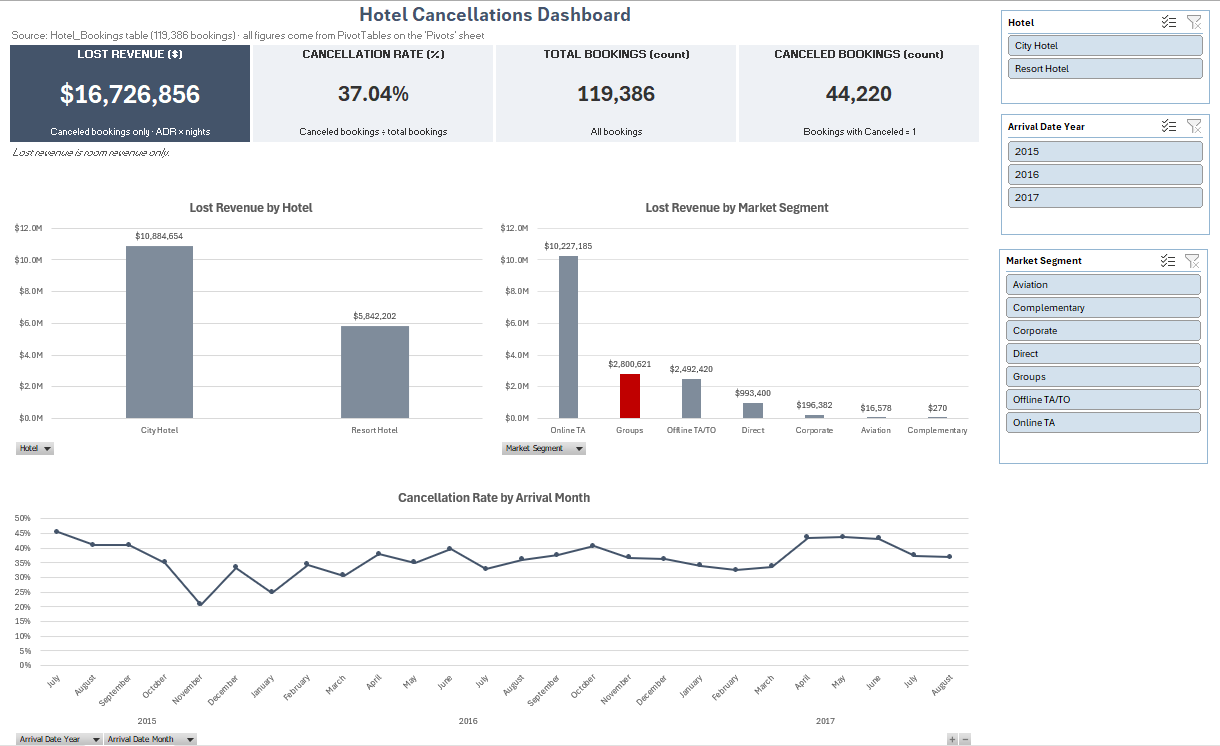
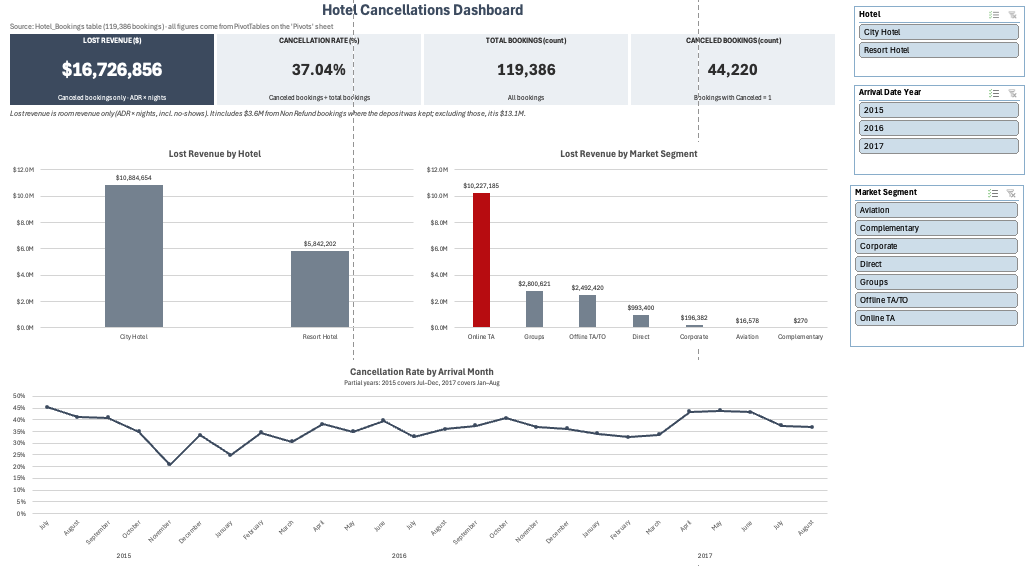
Replace screenshots with v2 dashboard
- New top and bottom screenshots of the v2 workbook
- Rename dashboard-bottom.png.png to dashboard-bottom.png
- Drop the v1 screenshot labels from the README

diff --git a/README.md b/README.md
@@ -4,9 +4,7 @@
 
 ![Dashboard top](dashboard-top.png)
 
-![Dashboard bottom](dashboard-bottom.png.png)
-
-*Screenshots show v1 of the dashboard. See [What changed in v2](#what-changed-in-v2).*
+![Dashboard bottom](dashboard-bottom.png)
 
 ## What it shows
 
@@ -64,8 +62,8 @@ Open `Hotel_Cancellations_Dashboard.xlsx` in Excel.
 ## Files
 
 - `Hotel_Cancellations_Dashboard.xlsx` — the dashboard workbook (v2)
-- `dashboard-top.png` — v1 screenshot: KPI tiles, lost revenue by hotel and by market segment, cancellation rate by arrival month
-- `dashboard-bottom.png.png` — v1 screenshot: cancellation rate by deposit type and lead time, Groups deep-dive, recommendations
+- `dashboard-top.png` — Dashboard top: KPI tiles, lost revenue by hotel and by market segment, cancellation rate by arrival month, slicers
+- `dashboard-bottom.png` — Dashboard bottom: cancellation rate by deposit type and lead time, data notes, Groups key figures, recommendations
 - `README.md` — this file
 
 ## Source and notes
